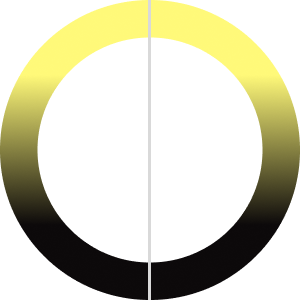
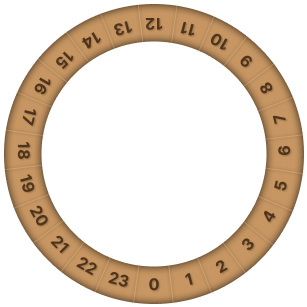
Progress on time system, timeSince last tick is next

diff --git a/client/src/components/UI/GameClock/GameClock.tsx b/client/src/components/UI/GameClock/GameClock.tsx
@@ -2,7 +2,8 @@
 // ─────────────────────────────────────────────────────────────────────────────
 // [ CORE ]
 // ─────────────────────────────────────────────────────────────────────────────
-import React, { useEffect, useRef } from 'react'
+import React, { useEffect, useRef, useState } from 'react'
+import classNames from 'classnames'
 
 // ─────────────────────────────────────────────────────────────────────────────
 // [ STORES ]
@@ -12,9 +13,20 @@ import { useConfigsStore } from '../../../stores/ConfigsStore'
 
 // ─────────────────────────────────────────────────────────────────────────────
 // [ ASSETS ]
-// ─────────────────────────────────────────────────────────────────────────────
 // @ts-ignore
 import clockImage from './assets/clock.png'
+// @ts-ignore
+import outterRing from './assets/outterRing.png'
+// @ts-ignore
+import innerRing from './assets/innerRing.png'
+// @ts-ignore
+import lens from './assets/lens.png'
+// @ts-ignore
+import background from './assets/background.png'
+// @ts-ignore
+import seasonHolder from './assets/seasonHolder.png'
+// @ts-ignore
+import dateHolder from './assets/dateHolder.png'
 // @ts-ignore
 import styles from './styles.module.css'
 // =============================================================================
@@ -26,8 +38,9 @@ export default function GameClock() {
     const gameDate = useGameStore( ( state ) => state.date )
     const realMillisecondsPerHour = useConfigsStore( ( state ) => state.realMillisecondsPerHour )
 
-    const rotationRef = useRef( 0 )
-    const prevHours = useRef( gameDate.getHours() )
+    const [rotation, setRotation] = useState(0)
+    const prevHours = useRef(gameDate.getHours())
+    const hasInitiallyRotated = useRef(false)
 
     const rawHour = gameDate.getHours() + 1
 
@@ -61,15 +74,17 @@ export default function GameClock() {
         }
     }
 
+
     useEffect( () => { 
-        rotationRef.current = hoursToDegrees( rawHour )
+        setRotation(hoursToDegrees( rawHour ))
         prevHours.current = rawHour
+        hasInitiallyRotated.current = true
     }, [] )
 
 
     useEffect( () => { 
         const prev = prevHours.current
-        const next = rawHour
+        const next = rawHour 
 
         const prevDeg = hoursToDegrees( prev )
         const nextDeg = hoursToDegrees( next )
@@ -78,21 +93,70 @@ export default function GameClock() {
 
          if ( delta > 0 ) {
             const clockwise = ( nextDeg - prevDeg + 360 ) % 360
-            rotationRef.current += clockwise
+            setRotation( ( prevRotation ) => prevRotation + clockwise )
             prevHours.current = next
         }
-
     }, [ rawHour ] )
 
 
+    function getFormattedDate( date: Date ): string {
+        const day = date.getDate()
+        const month = date.toLocaleDateString( 'en-US', { month: 'short' } )
+        let suffix
+
+        if ( day >= 11 && day <= 13 ) suffix = 'th'
+
+        switch ( day % 10 ) {
+            case 1:
+                suffix = 'st'
+                break
+            case 2:
+                suffix = 'nd'
+                break
+            case 3:
+                suffix = 'rd'
+                break
+            default:
+                suffix = 'th'
+                break
+        }
+
+        return `${ day}${ suffix } - ${ month }`
+    }
+
+
+    if ( !hasInitiallyRotated.current ) return null
+
+    console.log('re rendered')
+
     return (
         <div className={ styles.gameclockContainer }>
+            <div className={ styles.innerRing } >
+                <img src={ innerRing } />
+            </div>
+            <div className={ styles.lens } >
+                <img src={ lens } />
+            </div>
+            
             <div className={ styles.imageContainer }>
                 <img
                     src={ clockImage }
                     className={ styles.withTransition }
                     style={ {
-                        transform: `rotate(${ rotationRef.current + 15 }deg)`,
+                        transform: `rotate(${ rotation }deg)`,
+                        transformOrigin: 'center center',
+                        width: '100%',
+                        display: 'block',
+                        '--clock-transition-duration': `${ realMillisecondsPerHour }ms`,
+                    } as React.CSSProperties }
+                />
+            </div>
+            <div className={ styles.background } >
+                <img 
+                    src={ background } 
+                    className={ styles.withTransition }
+                    style={ { 
+                        transform: `rotate( ${ rotation }deg)`,
                         transformOrigin: 'center center',
                         width: '100%',
                         display: 'block',
@@ -100,9 +164,21 @@ export default function GameClock() {
                     } as React.CSSProperties }
                 />
             </div>
-            <div className={ styles.temporary }>
-                { gameDate.getHours() }
+            <div className={ styles.outterRing } >
+                <img src={ outterRing } />
             </div>
+            <div className={ styles.seasonHolder }>
+                <div className={ styles.content }>
+                    SUMMER - 16°C
+                </div>
+                <img src={ seasonHolder } />
+            </div>
+            <div className={ styles.dateHolder }>
+                <div className={ styles.content } >
+                    { getFormattedDate( gameDate ) }
+                </div>
+                <img src={ dateHolder } />                
+            </div> 
         </div>
     )
 }

diff --git a/client/src/components/UI/GameClock/styles.module.css b/client/src/components/UI/GameClock/styles.module.css
@@ -5,19 +5,94 @@
     width: 300px;
     height: 150px;
     z-index: 100;
+    cursor: default !important;
+    user-select: none !important;
+    pointer-events: none !important;
+
+    & .innerRing {
+        position: absolute;
+        top: -110px;
+        left: 37px;
+        z-index: 999;
+    }
+
+    & .lens {
+        position: absolute;
+        top: 110px;
+        left: 135px;
+        z-index: 1001;
+    }
 
     & .imageContainer {
         position: absolute;
-        top: -150px;
+        top: -146px;
+        z-index: 997;
+    }
+
+    & .background {
+        position: absolute;
+        top: -106px;
+        left: 44px;
+        z-index: 996;
+    }
+
+    & .outterRing {
+        position: absolute;
+        top: -15px;
+        left: -53px;
+        z-index: 998;
+    }
+
+    & .seasonHolder {
+        position: absolute;
+        top: -3px;
+        left: 39px;
+        z-index: 1000;
+        width: 222px;
+        height: 27px;
+
+        & .content {
+            display: flex;
+            align-items: center;
+            justify-content: center;
+            position: absolute;
+            z-index: 999;
+            font-family: Arial;
+            font-size: 13px;
+            color: #4F331A;
+            width: 100%;
+            height: 100%;
+        }
+    }
+
+    & .dateHolder {
+        position: absolute;
+        top: 86px;
+        left: 99px;
+        z-index: 1000;
+        width: 100px;
+        height: 27px;
+
+        & .content {
+            display: flex;
+            align-items: center;
+            justify-content: center;
+            position: absolute;
+            z-index: 999;
+            font-family: Arial;
+            font-size: 13px;
+            color: #4F331A;
+            width: 100%;
+            height: 27px;
+            font-weight: bold;
+        }
     }
 
     & .withTransition {
         transition: transform linear var(--clock-transition-duration);
     }
 
-    & .temporary {
-        position: absolute;
-        left: 150px;
-        top: 50px;
+    & .withNoTransition {
+        transition: none !important;
     }
 }

diff --git a/server/src/index.ts b/server/src/index.ts
@@ -54,17 +54,19 @@ socketServer.on( 'connection', ( socket ) => {
 
 })
 
+
+
+
+server.listen( HTTP_PORT, () => {
+  console.log( `HTTP Server running at http:L//localhost:${HTTP_PORT}` )
+  console.log( `Models served at http://localhost:${HTTP_PORT}/models` )
+} )
+
+
+// Time System and Subscriptions
+
 startTimeSimulation()
 console.log( 'Time Simulation Started' )
-
-
-subscribeTimeSimulation( 'TICK[index.ts]', ( gameTime: GameTime ) => {
-    console.log( 'ticking... ', gameTime )
-    serverBroadcast({
-        header: 'RES_TICK',
-        payload: gameTime
-    })
-})
 
 
 const currentGameTime = getCurrentTime()
@@ -74,8 +76,10 @@ subscribeTimeSimulation( '[gameState.ts]',( gameTime: GameTime ) => {
     Environment.date = gameTime.date
 })
 
-
-server.listen( HTTP_PORT, () => {
-  console.log( `HTTP Server running at http:L//localhost:${HTTP_PORT}` )
-  console.log( `Models served at http://localhost:${HTTP_PORT}/models` )
-} )
+subscribeTimeSimulation( 'TICK[index.ts]', ( gameTime: GameTime ) => {
+    console.log( 'ticking... ', gameTime.date.toLocaleString() )
+    serverBroadcast({
+        header: 'RES_TICK',
+        payload: gameTime
+    })
+})

diff --git a/client/src/components/UI/UIHeader/UIHeader.tsx b/client/src/components/UI/UIHeader/UIHeader.tsx
@@ -34,7 +34,22 @@ export default function UIHeader () {
 
     const playerData = usePlayersStore( ( state ) => connectionId ? state.playerList?.find( p => p.connectionId === connectionId ) || null : null )
     
- 
+    const [ shouldShow, setShouldShown ] = useState( false )
+
+    
+    useEffect( () => { 
+        const handleKeyDown = ( e: KeyboardEvent ) => {
+            if (e.key == 'Tab' ) {
+                e.preventDefault()
+                setShouldShown( prev => !prev )
+            }
+        }
+
+        window.addEventListener( 'keydown', handleKeyDown )
+        return () => window.removeEventListener( 'keydown', handleKeyDown )
+     }, [])
+
+
     function getConnectionStatus () {
         if ( isConnected ) {
             return (
@@ -89,8 +104,11 @@ export default function UIHeader () {
         })
     }
 
+    
+    if ( !shouldShow ) return null
 
-     return (
+
+    return (
         <div className={ styles.uiheaderContainer } >
             <div className={ styles.connectionContainer } >
                 { getConnectionStatus() }

diff --git a/server/src/gameState.ts b/server/src/gameState.ts
@@ -51,6 +51,6 @@ export const Environment: EnvinronmentType = {
 // TODO: It should be probably moved somewhere else
 export const Configurations: ConfigurationsType = {
     startDate: '2025-01-01T08:00:00.000Z',
-    realMillisecondsPerHour: 1000
+    realMillisecondsPerHour: 5000
 }
 

diff --git a/server/src/modules/Environment.ts b/server/src/modules/Environment.ts
@@ -10,7 +10,7 @@ export function requestEnvironment ( request: RequestEnvironmentPayloadType, soc
         }
     }
 
-    console.log( 'sending ', Environment )
+    console.log( 'sending ', Environment.date.toLocaleString() )
     
     socket.send( JSON.stringify( response ) )
 }

diff --git a/server/src/modules/TimeModule.ts b/server/src/modules/TimeModule.ts
@@ -23,7 +23,6 @@ timeSystem.on( 'tick', ( time: GameTime ) => {
 } )
 
 
-
 export function startTimeSimulation(): void {
     timeSystem.start()
 }
